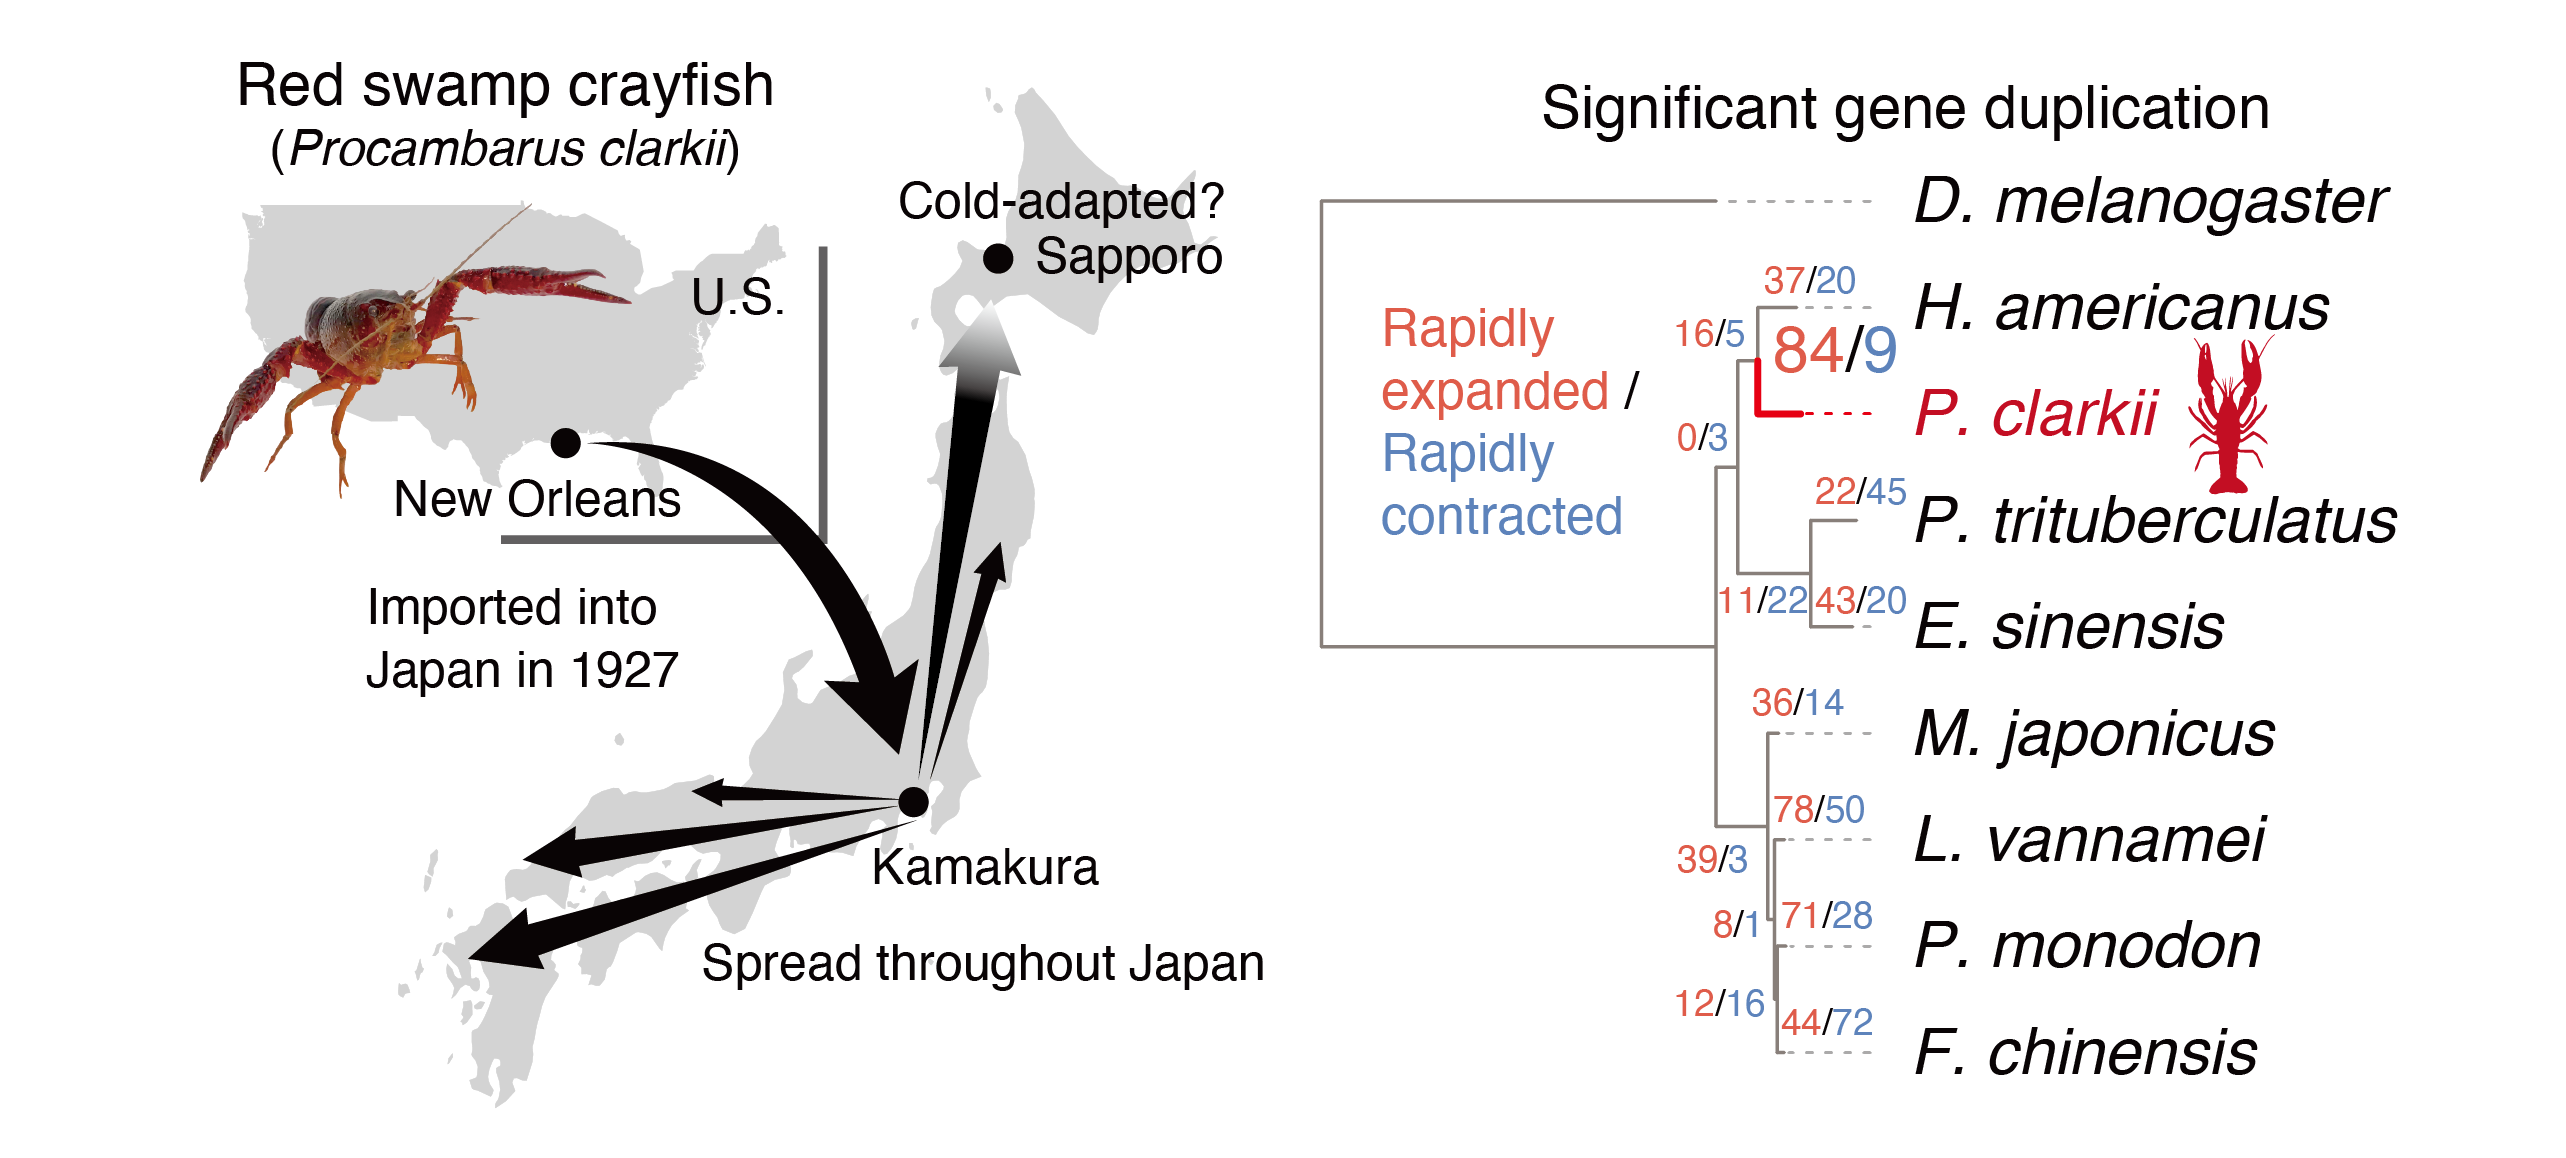
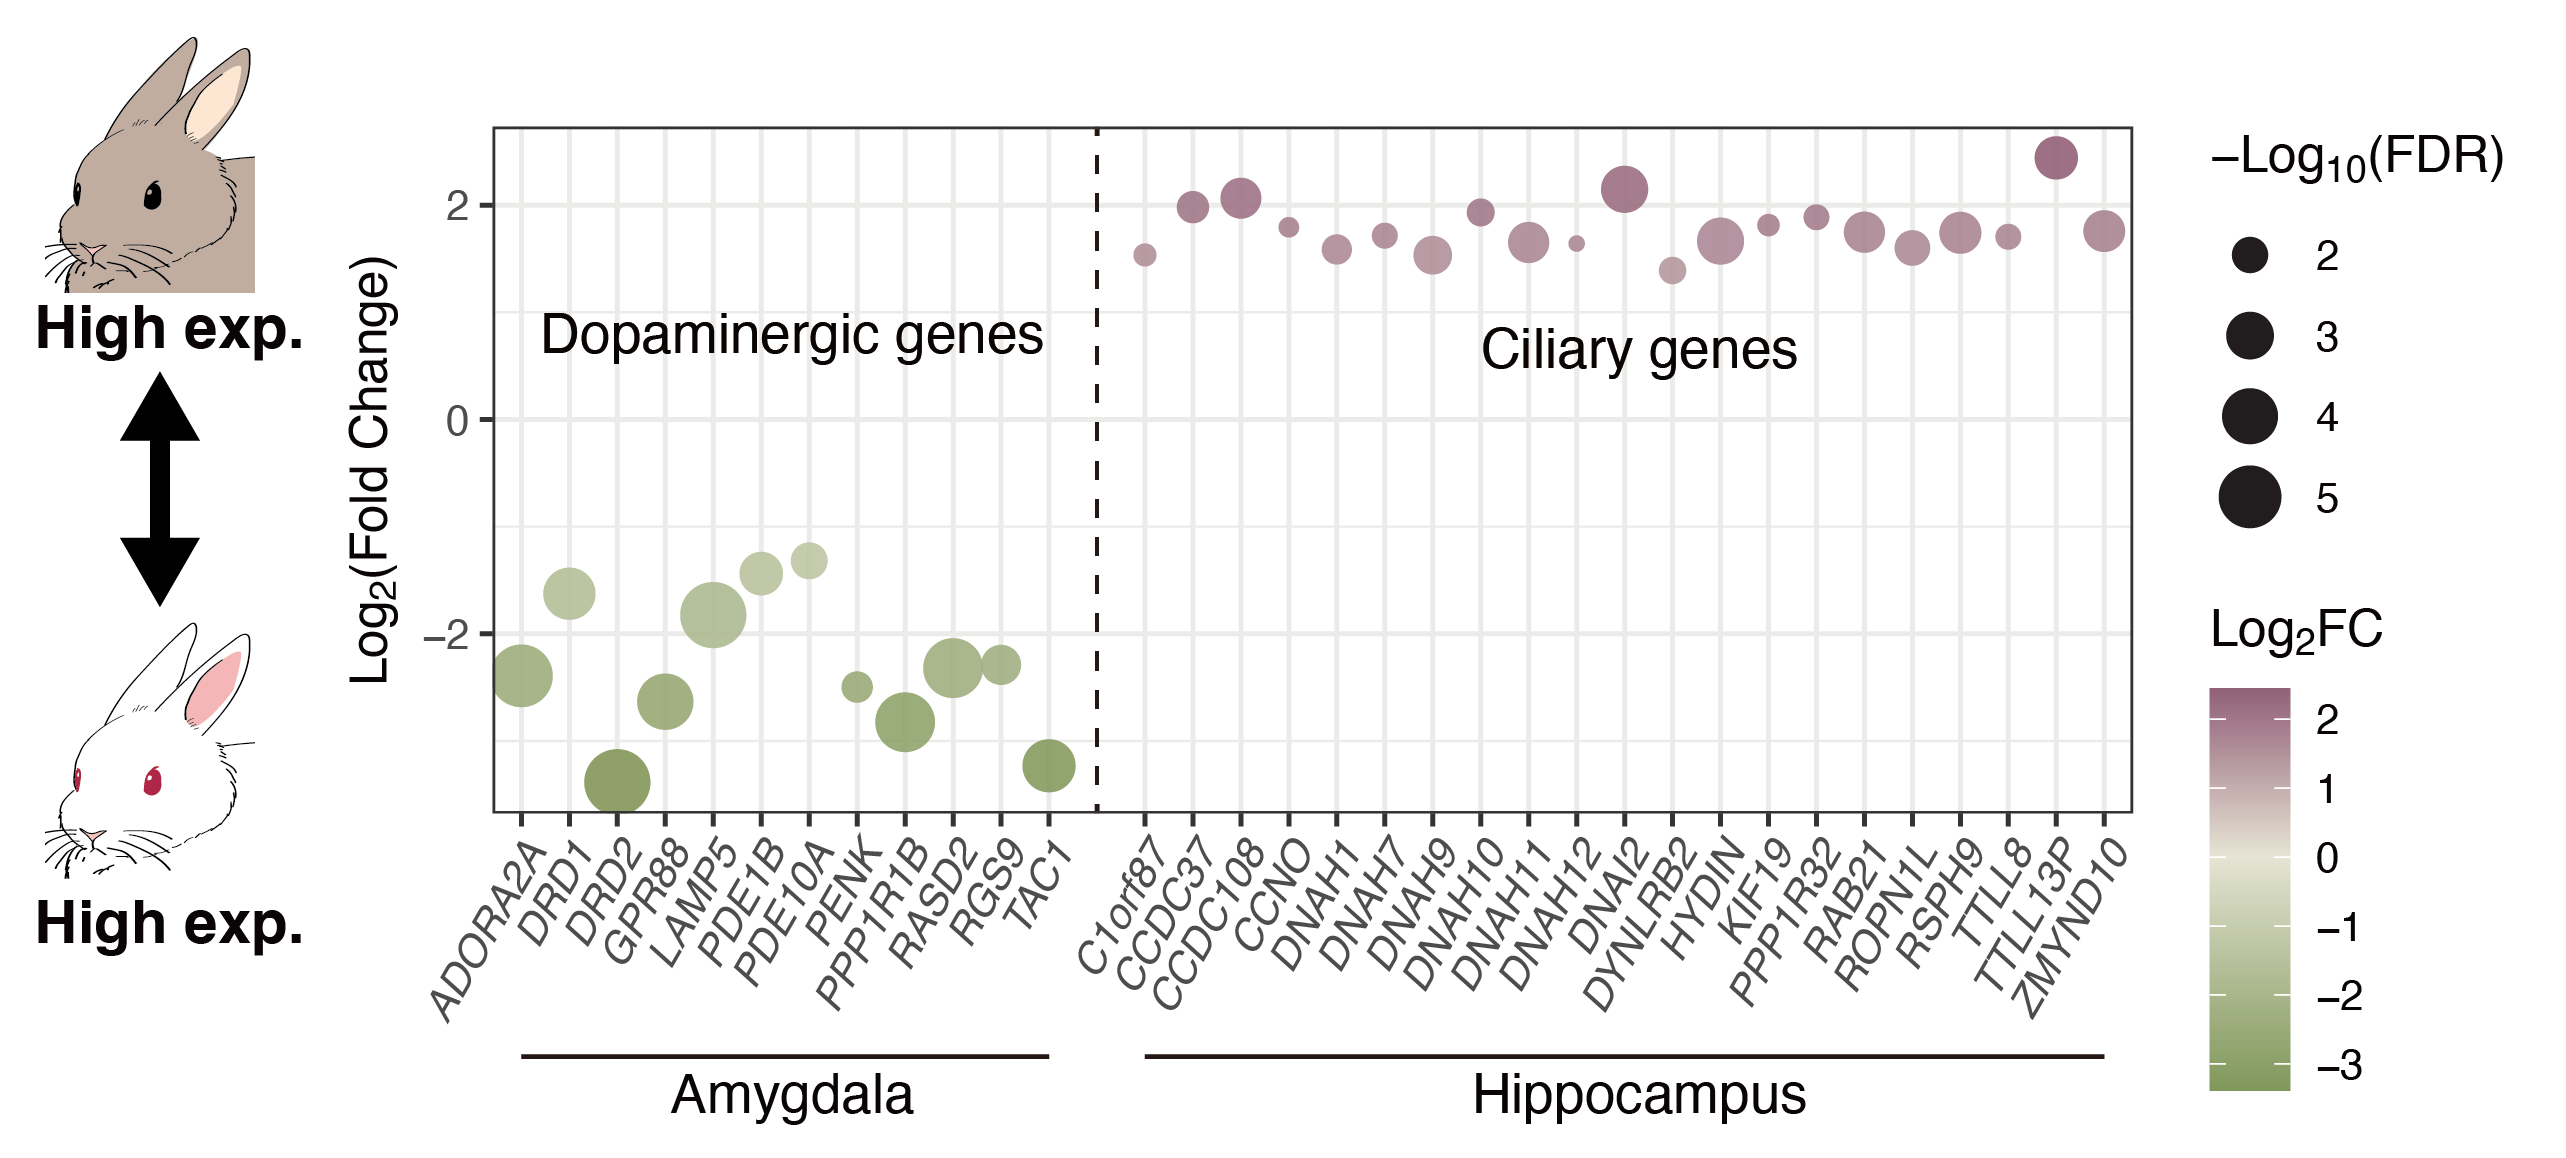
Built site for gh-pages

diff --git a/en/lab/research.html b/en/lab/research.html
@@ -264,10 +264,21 @@ Transformative insights from large-scale behavioral datasets
 </details>
 <details class="collapsible-block">
 <summary>
+Observing “real” animal behavior through engineering-based approaches
+</summary>
+<div style="display: flex; align-items: flex-start">
+<p><img src="../../images/movie1.gif" alt="GIF animation" style="width: 380px; margin-right: 20px;"> <img src="../../images/figure4.png" alt="Figure 4" style="width: 250px;"></p>
+</div>
+<div class="text">
+<p>How “real” is the behavior we observe in laboratory animals? The presence of human observers, the spatial constraints of artificial arenas, and the absence of natural social and environmental interactions all contribute to conditions that differ significantly from those in the wild. To address this, I apply approaches such as animal-computer interaction, where stimuli are dynamically presented in response to the animal’s behavior. This enables us to evoke more naturalistic responses. One example involves controlling the movement of virtual flies displayed on a screen to quantify predatory attacks by spiders (<a href="" target="_blank">Sato &amp; Takahashi, <em>in press</em></a>). I also use inverse reinforcement learning to infer the underlying reward structures that drive behavior (Sato et al., <em>in prep.</em> ). By integrating such engineering-driven approaches, I aim to advance our understanding of animal decision-making and behavior in more ecologically meaningful contexts.</p>
+</div>
+</details>
+<details class="collapsible-block">
+<summary>
 Genetic basis of tameness and behavioral evolution during domestication
 </summary>
 <div class="image">
-<p><img src="../../images/figure4.png" class="img-fluid"></p>
+<p><img src="../../images/figure5.png" class="img-fluid"></p>
 </div>
 <div class="text">
 <p>Domestication of animals and cultivation of plants are often regarded as early human-driven evolutionary experiments. In animals, domestication has led to a suite of common changes across species—including alterations in coat colour, skeletal structure, reproductive traits, and especially behavior such as increased tameness—collectively referred to as the “domestication syndrome.” Uncovering the genetic underpinnings of these changes remains a major question in evolutionary biology. Focusing on rabbits, a species famously noted for its docility in The Origin of Species, I investigated changes in brain gene expression associated with domestication. By comparing the brain transcriptomes of domestic and wild rabbits, I identified domestication-related alterations in gene expression patterns (<a href="https://academic.oup.com/gbe/advance-article/doi/10.1093/gbe/evaa158/5896528" target="_blank">Sato et al., 2020 <em>Genome Biology and Evolution</em></a> ). Notably, in the amygdala—a brain region involved in emotional regulation—genes related to dopamine signalling showed increased expression in domestic rabbits, suggesting a potential link to enhanced tameness and reduced fear towards humans.</p>
@@ -278,7 +289,7 @@ Genetic basis of tameness and behavioral evolution during domestication
 Understanding rapid environmental adaptation in the Anthropocene
 </summary>
 <div class="image">
-<p><img src="../../images/figure5.png" class="img-fluid"></p>
+<p><img src="../../images/figure6.png" class="img-fluid"></p>
 </div>
 <div class="text">
 <p>Since their emergence, humans have dramatically transformed natural environments through their exceptional cognitive abilities, expanding their habitats across the globe. This unprecedented influence has not only led to declines in the abundance and distribution of many species but has also driven rapid adaptations to novel environments. I have explored these processes by focusing on the invasive red swamp crayfish (<em>Procambarus clarkii</em>), a species that has expanded its range globally and now exerts substantial impacts on native ecosystems. My research revealed that extensive gene duplication and changes in gene regulation in this species may have facilitated adaptation to colder climates (<a href="https://doi.org/10.1016/j.isci.2023.107267" target="_blank">Sato et al., 2023 <em>iScience</em></a> ). In parallel, I am investigating the effects of artificial light at night (ALAN) on coastal isopods, examining how ALAN alters their behavior, morphology, and habitat use (Sato, <em>submitted</em>). Through a combination of field surveys, behavioral experiments, and genomic and transcriptomic analyses, I aim to uncover how human activities are driving rapid evolutionary responses in wildlife.</p>

diff --git a/lab/research.html b/lab/research.html
@@ -264,10 +264,21 @@ ul.task-list li input[type="checkbox"] {
 </details>
 <details class="collapsible-block">
 <summary>
+工学的アプローチによる”リアル”な動物行動の観察と定量
+</summary>
+<div style="display: flex; align-items: flex-start">
+<p><img src="../images/movie1.gif" alt="GIF animation" style="width: 380px; margin-right: 20px;"> <img src="../images/figure4.png" alt="Figure 4" style="width: 250px;"></p>
+</div>
+<div class="text">
+<p>実験室で観察される動物の行動はどれほど”リアル”でしょうか? 我々観察者の存在や, 実験アリーナの空間的制約, あるいは他個体との相互作用など, 野外環境との違いを挙げればキリがありません. こうした観点から, 例えば, Animal-computer interactionの手法を用いて, 対象動物の行動に合わせた刺激を与えることで, よりリアルな動物の行動を引き出せると考えています. 画面に表示したバーチャルハエの動きを操作し, クモの攻撃行動を定量するというのはその一例です（<a href="" target="_blank">Sato &amp; Takahashi, <em>in press</em></a>）. また, 情報工学の分野で用いられる逆強化学習という手法を用いて行動の背後にある報酬設計を推定しています（Sato et al., <em>in prep.</em>）. こうしたアプローチも活用し, 動物の行動について理解を深めたいと考えています.</p>
+</div>
+</details>
+<details class="collapsible-block">
+<summary>
 動物の家畜化に関わる懐きやすさの遺伝基盤の解明
 </summary>
 <div class="image">
-<p><img src="../images/figure4.png" class="img-fluid"></p>
+<p><img src="../images/figure5.png" class="img-fluid"></p>
 </div>
 <div class="text">
 <p>植物の栽培化や動物の家畜化は人為選択といわれ, 人類による最初の進化実験と呼ぶことができます. 動物の家畜化においては, 毛色や骨格といった形態的側面, 繁殖期間などの生理的側面, そして人への懐きやすさなどの行動的側面において, 生物種間で共通する大きな変化（“家畜化症候群”）が生じており, その遺伝的基盤の解明は進化生物学の大きな課題の一つです. 私は, 『種の起源』にもその懐きやすさが記載されるウサギに着目し, 野生種との脳内トランスクリプトームの比較から, その家畜化過程で生じた脳内遺伝子発現の変化を明らかにしました（<a href="https://academic.oup.com/gbe/advance-article/doi/10.1093/gbe/evaa158/5896528" target="_blank">Sato et al., 2020 <em>Genome Biology and Evolution</em></a>）. 特に情動の制御に関わる扁桃体ではドーパミンの機能に関連する遺伝子群の発現が家畜ウサギで増加しており, 人への懐きやすさといった行動と関連している可能性があります.</p>
@@ -278,7 +289,7 @@ ul.task-list li input[type="checkbox"] {
 人新世における生物の急速な環境適応の理解
 </summary>
 <div class="image">
-<p><img src="../images/figure5.png" class="img-fluid"></p>
+<p><img src="../images/figure6.png" class="img-fluid"></p>
 </div>
 <div class="text">
 <p>人類はその誕生以降,　高い知能とともに周囲の環境を改変し, 地球全域にまで生息地を広げました. その過程では, 他の生物の生息域や個体数の減少だけでなく, 新たな環境への適応まで引き起こしています. 私は, 人間活動に伴って生息域を広げ, 世界各地で在来生態系に大きな影響を与えているアメリカザリガニに着目し, 本種のゲノムで生じた顕著な遺伝子重複とその発現調節の変化が寒冷地への適応に寄与している可能性を明らかにしました（<a href="https://doi.org/10.1016/j.isci.2023.107267" target="_blank">Sato et al., 2023 <em>iScience</em></a>）. また, 夜間人工光（Artificial light at night: ALAN）が沿岸生物に与える影響に着目し, ALANがフナムシの行動や形態, 生息域に与える影響を検証しています（Sato, <em>submitted</em>）. フィールド調査や行動実験, ゲノムやトランスクリプトーム解析を通して, 人間活動が生物の急速な進化に与えた影響の包括的な理解を目指しています.</p>
